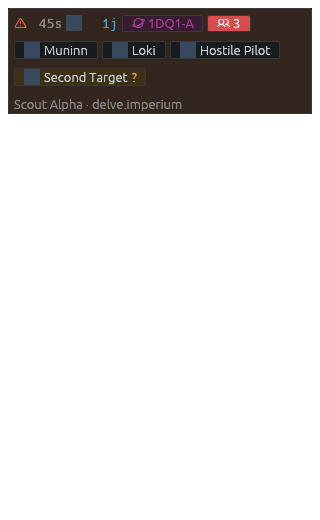
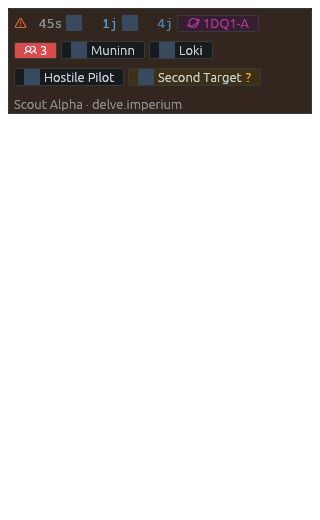
Show both characters on a compact card too
Dropping the second slot below 400px meant the number you are used to reading
disappeared when the feed was docked narrow, which is worse than the width it
costs. At 320px the row wraps its chips onto another line instead.

Changed region(s): [[0.0312, 0.0308, 0.875, 0.1846]]

diff --git a/app/src/uitest/scenes.rs b/app/src/uitest/scenes.rs
@@ -1481,15 +1481,16 @@ fn uitest_intel_card_badge_is_as_tall_as_the_chips_beside_it() {
     );
 }
 
-/// A compact card is ~320px and UI-002 fought over 33 of them, so the second slot is dropped there
-/// and the selected character's distance moves into the roster the badge opens.
+/// A compact card carries both slots too. Dropping the second one there was the wrong trade: the
+/// number you are used to reading disappearing when the feed is docked narrow is more confusing
+/// than the width it costs.
 #[test]
-fn uitest_intel_card_compact_shows_only_the_nearest() {
+fn uitest_intel_card_compact_shows_both_characters() {
     let mut scene =
         all().into_iter().find(|s| s.name == "intel_row_two_characters_narrow").expect("scene");
     let harness = harness::build(&mut scene, false);
-    assert_eq!(jump_chips(&harness), ["1j"]);
-    assert_eq!(char_badges(&harness), ["Scout Alt"]);
+    assert_eq!(jump_chips(&harness), ["1j", "4j"]);
+    assert_eq!(char_badges(&harness), ["Scout Alt", "Amryu"]);
 }
 
 /// Nothing to disambiguate, so one number, but the portrait stays: the card should not change

diff --git a/app/src/app.rs b/app/src/app.rs
@@ -22935,12 +22935,8 @@ pub(crate) fn intel_row(
                 }
                 if let Some(near) = chars.nearest() {
                     consumed |= char_jump_slot(ui, near, chars, false, compact, tip);
-                    // A compact card has no room for the second badge, so the selected
-                    // character's own distance lives in the roster the badge opens.
-                    if !compact {
-                        if let Some(sel) = chars.second() {
-                            consumed |= char_jump_slot(ui, sel, chars, true, compact, tip);
-                        }
+                    if let Some(sel) = chars.second() {
+                        consumed |= char_jump_slot(ui, sel, chars, true, compact, tip);
                     }
                 } else if let Some(j) = from_you {
                     let jtxt = if j == 0 { "here".to_owned() } else { format!("{j}j") };

diff --git a/ui-tickets/UI-037-intel-jumps-only-from-the-selected-character/review.md b/ui-tickets/UI-037-intel-jumps-only-from-the-selected-character/review.md
@@ -32,8 +32,7 @@ already relies on: `Systems` is only mutated before it is wrapped, so a bridge e
 
 `intel_row` takes `chars: &CardChars`. With hops it draws a badge and number per slot; without, it
 falls through to the existing path byte for byte, which is what all 17 call sites and every
-existing scene get. Full cards carry the nearest and the selected, the selected dimmed; compact
-cards carry only the nearest and put the rest in the roster the badge opens.
+existing scene get. Both card widths carry the nearest and the selected, the selected dimmed.
 
 `ipc::AlertMsg` gains `#[serde(default)] chars: Vec<CardChars>`, index-aligned with `feed`, because
 the overlay subprocess holds neither the roster nor anyone's location. `AlertConfig` gains the
@@ -76,10 +75,10 @@ just changed.
   in `ball` fails it with `zarzakh: ball 1 -> 30100000 at cap 1, left: None, right: Some(1)`. That
   ordering is not obvious: `bfs_jumps` answers `n == to` *before* testing `is_no_transit`, so a
   route may end at Zarzakh and never pass through it. This test is what licensed reusing the ball.
-- `uitest_intel_card_compact_shows_only_the_nearest` fails with two numbers if the `!compact` guard
-  goes; `uitest_intel_card_keeps_the_badge_when_nearest_is_selected` fails with two identical
-  numbers if the `i != 0` guard goes; `uitest_intel_card_draws_no_badge_for_one_character` fails if
-  a badge is drawn unconditionally.
+- `uitest_intel_card_keeps_the_badge_when_nearest_is_selected` fails with two identical numbers if
+  the `i != 0` guard goes; `uitest_intel_card_draws_no_badge_for_one_character` fails if a badge is
+  drawn unconditionally; `uitest_intel_card_compact_shows_both_characters` fails if a compact card
+  drops a slot.
 - `uitest_intel_card_jump_column_holds_its_x` pins UI-002's column across a card with a second slot
   and one without.
 - `the_hundred_card_trim_cuts_every_vector_by_the_same_amount` pins the shift bug the `via` comment
@@ -121,6 +120,11 @@ Three changes on the user's read of the shipped card, all in the same ticket:
   carries it whether or not a mark label exists beside it.
   `uitest_bridge_mark_explains_itself_on_hover` was reworked onto the number and proves it.
 - **The selected character's number was too faint.** `gamma_multiply(0.55)` to `0.8`.
+- **Compact cards carry both slots too.** They were built to show only the nearest, on the
+  reasoning that ~320px is the width UI-002 fought over. Wrong trade: the number you are used to
+  reading vanishing when the feed is docked narrow is worse than the width it costs. At 320px the
+  row now wraps its chips onto a third line, and `uitest_layout` confirms nothing escapes the
+  window.
 
 One claim of mine did not survive its own teeth check. I wrote a comment saying `Button::image` was
 what held the portrait at text size, and that swapping to `Button::new` fixed it. Reverting only the
